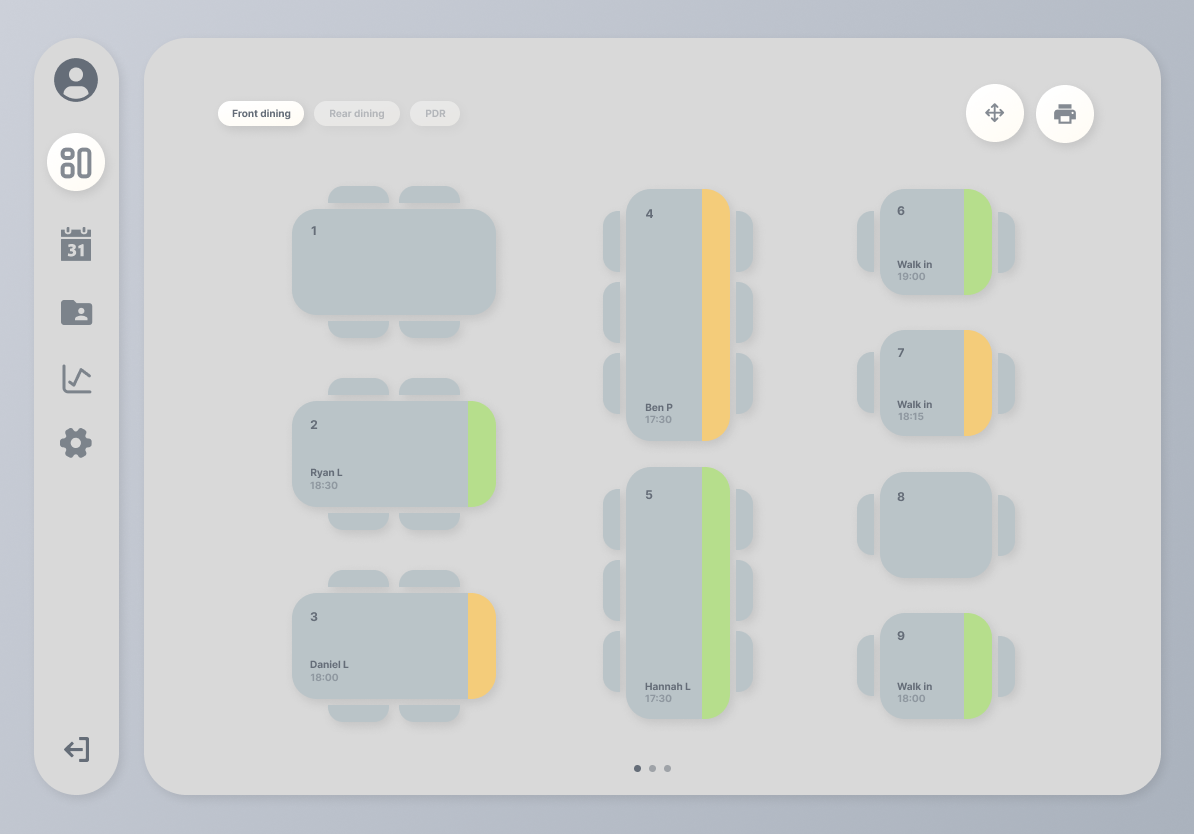
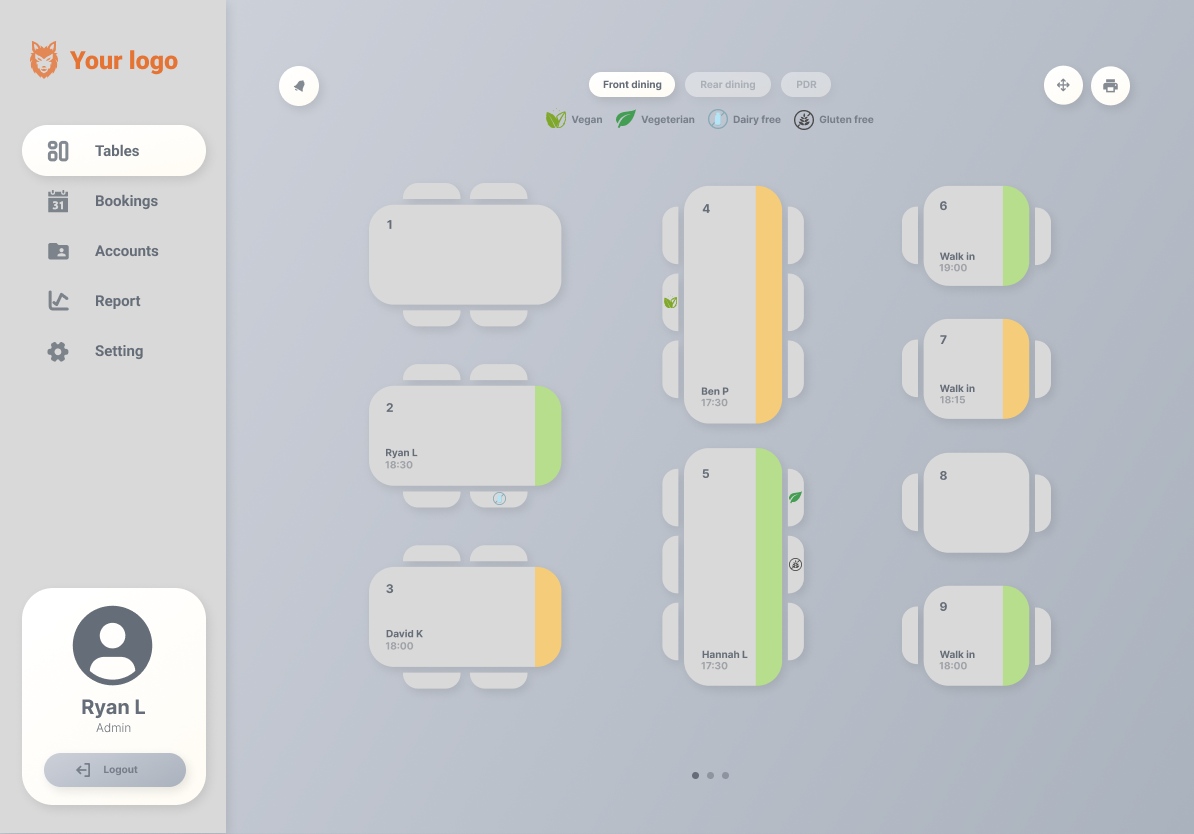
Table layout and order layout added

diff --git a/README.md b/README.md
@@ -70,7 +70,8 @@ The app offers the below functions :
 Primary designs
 
 ![Tablet_login](/docs/layouts/tablet_login.png)
-![Table_tables](/docs/layouts/tablet_tables.png)
+![Table_Tables](/docs/layouts/tablet_tables.png)
+![Table_Tables_Orders](/docs/layouts/tablet_tables_orders.png)
 
 
 <br>
